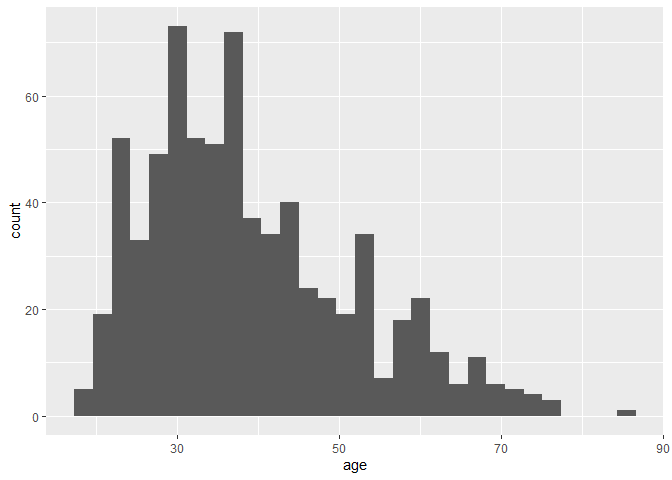
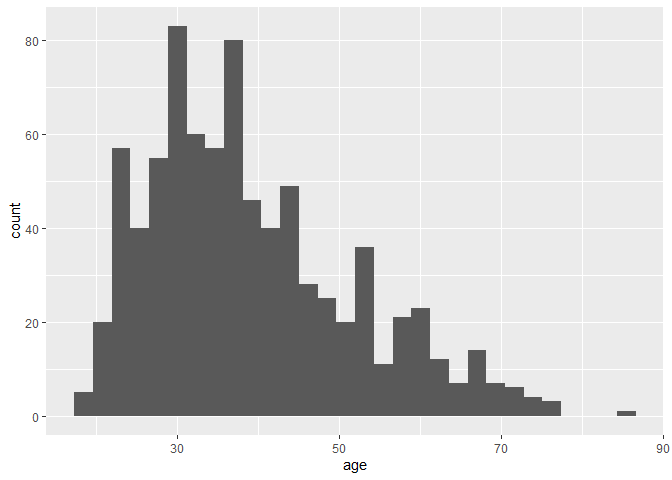
updating data file

diff --git a/04_update_prob/get_qualtrics_data_political_candidates.md b/04_update_prob/get_qualtrics_data_political_candidates.md
@@ -55,7 +55,7 @@ current_batch_type <- "Iterative Batch Phase: Min"
 df <- load_qualtrics(survey_name)
 ```
 
-    ##   |                                                                              |                                                                      |   0%  |                                                                              |============                                                          |  17%  |                                                                              |===========================================                           |  61%  |                                                                              |=============================================================         |  87%  |                                                                              |===================================================================   |  96%  |                                                                              |======================================================================| 100%
+    ##   |                                                                              |                                                                      |   0%  |                                                                              |===========                                                           |  16%  |                                                                              |=======================================                               |  56%  |                                                                              |===================================================================   |  96%  |                                                                              |======================================================================| 100%
 
     ## 
     ## ── Column specification ────────────────────────────────────────────────────────
@@ -90,7 +90,7 @@ df %>%
   nrow()
 ```
 
-    ## [1] 1146
+    ## [1] 1247
 
 ``` r
 # drop test data
@@ -103,21 +103,21 @@ df %>%
   nrow()
 ```
 
-    ## [1] 1023
+    ## [1] 1124
 
 ``` r
 # average finished rate
 mean(df$Finished)
 ```
 
-    ## [1] 0.998045
+    ## [1] 0.9982206
 
 ``` r
 # average time to complete
 mean(df$`Duration (in seconds)`)
 ```
 
-    ## [1] 97.81916
+    ## [1] 96.61655
 
 ``` r
 # compare amount of time spent
@@ -135,7 +135,7 @@ df %>%
     ## # A tibble: 1 × 4
     ##   `Duration (in seconds)_mean` Duration (in seconds)_mi…¹ Duration (in seconds…²
     ##                          <dbl>                      <dbl>                  <dbl>
-    ## 1                         1.63                      0.433                   25.6
+    ## 1                         1.61                      0.433                   25.6
     ## # ℹ abbreviated names: ¹`Duration (in seconds)_min`,
     ## #   ²`Duration (in seconds)_max`
     ## # ℹ 1 more variable: `Duration (in seconds)_median` <dbl>
@@ -146,6 +146,8 @@ df %>%
 # hardcoding this because it should not be changing each time
 # we should only update it as we increase batches
 df <- df %>%
+  # drop data collected incorrectly
+  filter(StartDate_clean <= ymd_hms("2023-12-27-16-54-00") | StartDate_clean >= ymd_hms("2024-01-03-00-00-00")) %>%
   mutate(
     batch_id = case_when(
       StartDate_clean <= ymd_hms("2023-12-26-18-48-00") ~ 0,
@@ -153,6 +155,7 @@ df <- df %>%
       StartDate_clean <= ymd_hms("2023-12-27-14-47-00") ~ 2,
       StartDate_clean <= ymd_hms("2023-12-27-15-33-00") ~ 3,
       StartDate_clean <= ymd_hms("2023-12-27-16-54-00") ~ 4,
+      StartDate_clean <= ymd_hms("2024-01-03-12-43-00") ~ 1,
       TRUE ~ NA_integer_
     ),
     batch_type = case_when(
@@ -161,9 +164,7 @@ df <- df %>%
       StartDate_clean > ymd_hms("2023-12-27-16-54-00") ~ "Iterative Batch Phase: Min",
       TRUE ~ NA_character_
     )
-  ) %>%
-  # drop data collected incorrectly
-  filter(StartDate_clean <= ymd_hms("2023-12-27-16-54-00") | StartDate_clean >= ymd_hms("2024-01-03-00-00-00")) %>% 
+  ) %>% 
   verify(!is.na(batch_id)) 
 
 df %>%
@@ -174,15 +175,16 @@ df %>%
     ## `summarise()` has grouped output by 'batch_id'. You can override using the
     ## `.groups` argument.
 
-    ## # A tibble: 5 × 3
+    ## # A tibble: 6 × 3
     ## # Groups:   batch_id [5]
     ##   batch_id batch_type                     n
     ##      <dbl> <chr>                      <int>
     ## 1        0 Warmup                       323
     ## 2        1 Iterative Batch Phase: Max    99
-    ## 3        2 Iterative Batch Phase: Max   100
-    ## 4        3 Iterative Batch Phase: Max   100
-    ## 5        4 Iterative Batch Phase: Max   100
+    ## 3        1 Iterative Batch Phase: Min   101
+    ## 4        2 Iterative Batch Phase: Max   100
+    ## 5        3 Iterative Batch Phase: Max   100
+    ## 6        4 Iterative Batch Phase: Max   100
 
 ## Survey Validation
 
@@ -214,7 +216,7 @@ df %>%
   distinct()
 ```
 
-    ## # A tibble: 5 × 8
+    ## # A tibble: 6 × 8
     ##   batch_id   pi1   pi2   pi3   pi4   pi5   pi6   pi7
     ##      <dbl> <dbl> <dbl> <dbl> <dbl> <dbl> <dbl> <dbl>
     ## 1        0 0.125 0.25  0.375 0.5   0.625 0.75  0.875
@@ -222,6 +224,7 @@ df %>%
     ## 3        2 0.023 0.176 0.186 0.199 0.845 0.94  0.955
     ## 4        3 0.028 0.073 0.078 0.094 0.813 0.925 0.94 
     ## 5        4 0.035 0.102 0.108 0.12  0.856 0.901 0.916
+    ## 6        1 0.111 0.146 0.346 0.738 0.748 0.781 0.982
 
 ``` r
 # check consent means their responses are missing
@@ -237,7 +240,7 @@ df <- df %>%
     ## Warning in check_consent(.): 1 survey respondents who do not consent with
     ## non-missing responses
 
-    ## Warning in check_consent(.): 721 respondents in the data
+    ## Warning in check_consent(.): 822 respondents in the data
 
 ``` r
 # check that all completed
@@ -248,7 +251,7 @@ df <- df %>%
     ## Warning in check_completion(.): Dropping 2 survey respondents who did not
     ## finish
 
-    ## Warning in check_completion(.): 719 respondents in the data
+    ## Warning in check_completion(.): 820 respondents in the data
 
 ``` r
 df <- df %>%
@@ -270,12 +273,12 @@ df <- df %>%
     ## Warning in check_commitment(.): Dropping 1 survey respondents did not pass
     ## commitment check 1
 
-    ## Warning in check_commitment(.): 718 respondents in the data
+    ## Warning in check_commitment(.): 819 respondents in the data
 
     ## Warning in check_commitment(.): Dropping 2 survey respondents who did not pass
     ## commitment check 2
 
-    ## Warning in check_commitment(.): 716 respondents in the data
+    ## Warning in check_commitment(.): 817 respondents in the data
 
 ``` r
 # create context variable
@@ -290,8 +293,8 @@ df %>%
     ## `summarise()` has grouped output by 'batch_type'. You can override using the
     ## `.groups` argument.
 
-    ## # A tibble: 16 × 3
-    ## # Groups:   batch_type [2]
+    ## # A tibble: 24 × 3
+    ## # Groups:   batch_type [3]
     ##    batch_type                 context     n
     ##    <chr>                      <ord>   <int>
     ##  1 Iterative Batch Phase: Max 1          12
@@ -302,14 +305,9 @@ df %>%
     ##  6 Iterative Batch Phase: Max 6          32
     ##  7 Iterative Batch Phase: Max 7          11
     ##  8 Iterative Batch Phase: Max 8          39
-    ##  9 Warmup                     1          33
-    ## 10 Warmup                     2          39
-    ## 11 Warmup                     3          42
-    ## 12 Warmup                     4          28
-    ## 13 Warmup                     5          51
-    ## 14 Warmup                     6          42
-    ## 15 Warmup                     7          37
-    ## 16 Warmup                     8          45
+    ##  9 Iterative Batch Phase: Min 1          11
+    ## 10 Iterative Batch Phase: Min 2           2
+    ## # ℹ 14 more rows
 
 ``` r
 df %>%
@@ -320,15 +318,16 @@ df %>%
     ## `summarise()` has grouped output by 'batch_id'. You can override using the
     ## `.groups` argument.
 
-    ## # A tibble: 5 × 3
+    ## # A tibble: 6 × 3
     ## # Groups:   batch_id [5]
     ##   batch_id batch_type                     n
     ##      <dbl> <chr>                      <int>
     ## 1        0 Warmup                       317
     ## 2        1 Iterative Batch Phase: Max    99
-    ## 3        2 Iterative Batch Phase: Max   100
-    ## 4        3 Iterative Batch Phase: Max   100
-    ## 5        4 Iterative Batch Phase: Max   100
+    ## 3        1 Iterative Batch Phase: Min   101
+    ## 4        2 Iterative Batch Phase: Max   100
+    ## 5        3 Iterative Batch Phase: Max   100
+    ## 6        4 Iterative Batch Phase: Max   100
 
 ``` r
 # check ID is unique again
@@ -336,6 +335,8 @@ if (length(unique(df$`Prolific ID Q`)) != nrow(df)) {
   print("ID is not unique")
 }
 ```
+
+    ## [1] "ID is not unique"
 
 ``` r
 df %>%
@@ -466,7 +467,7 @@ df_clean %>%
   verify(!is.na(chose_younger))
 ```
 
-    ## # A tibble: 716 × 10
+    ## # A tibble: 817 × 10
     ##    chose_younger    Q1    Q2    Q3    Q4    Q5    Q6    Q7    Q8 context
     ##            <dbl> <dbl> <dbl> <dbl> <dbl> <dbl> <dbl> <dbl> <dbl> <ord>  
     ##  1             1    NA    NA    NA     1    NA    NA    NA    NA 6      
@@ -479,7 +480,7 @@ df_clean %>%
     ##  8             1    NA    NA    NA     1    NA    NA    NA    NA 5      
     ##  9             0    NA     0    NA    NA    NA    NA    NA    NA 6      
     ## 10             1    NA     1    NA    NA    NA    NA    NA    NA 5      
-    ## # ℹ 706 more rows
+    ## # ℹ 807 more rows
 
 ``` r
 df_clean %>%
@@ -494,14 +495,14 @@ df_clean %>%
     ## # A tibble: 8 × 4
     ##   context     n resp1 resp0
     ##   <ord>   <int> <dbl> <int>
-    ## 1 1          45    33    12
-    ## 2 2          79    57    22
-    ## 3 3          47    32    15
-    ## 4 4          37    26    11
-    ## 5 5         302   238    64
-    ## 6 6          74    54    20
-    ## 7 7          48    34    14
-    ## 8 8          84    62    22
+    ## 1 1          56    39    17
+    ## 2 2          81    58    23
+    ## 3 3          65    46    19
+    ## 4 4          82    63    19
+    ## 5 5         304   238    66
+    ## 6 6          76    55    21
+    ## 7 7          68    50    18
+    ## 8 8          85    63    22
 
 ``` r
 # identify context desc
@@ -533,7 +534,7 @@ df_clean %>%
     ## # A tibble: 1 × 1
     ##   per_pass_attention_check
     ##                      <dbl>
-    ## 1                    0.964
+    ## 1                    0.965
 
 ``` r
 df_clean <- df_clean %>%
@@ -570,14 +571,14 @@ df_clean %>%
     ## # A tibble: 8 × 3
     ##   race                                  n     per
     ##   <chr>                             <int>   <dbl>
-    ## 1 White                               506 0.707  
-    ## 2 Asian                                73 0.102  
-    ## 3 Black or African American            69 0.0964 
-    ## 4 Multiracial                          40 0.0559 
-    ## 5 Other                                16 0.0223 
-    ## 6 American Indian or Alaskan Native     5 0.00698
-    ## 7 Prefer not to disclose                5 0.00698
-    ## 8 Native Hawaiian                       2 0.00279
+    ## 1 White                               583 0.714  
+    ## 2 Asian                                82 0.100  
+    ## 3 Black or African American            79 0.0967 
+    ## 4 Multiracial                          44 0.0539 
+    ## 5 Other                                17 0.0208 
+    ## 6 American Indian or Alaskan Native     5 0.00612
+    ## 7 Prefer not to disclose                5 0.00612
+    ## 8 Native Hawaiian                       2 0.00245
 
 ``` r
 df_clean %>%
@@ -587,7 +588,7 @@ df_clean %>%
 
     ## `stat_bin()` using `bins = 30`. Pick better value with `binwidth`.
 
-    ## Warning: Removed 5 rows containing non-finite values (`stat_bin()`).
+    ## Warning: Removed 7 rows containing non-finite values (`stat_bin()`).
 
 ![](get_qualtrics_data_political_candidates_files/figure-gfm/demog-1.png)<!-- -->
 
@@ -600,8 +601,8 @@ df_clean %>%
     ## # A tibble: 2 × 2
     ##   female count
     ##   <lgl>  <int>
-    ## 1 FALSE    386
-    ## 2 TRUE     330
+    ## 1 FALSE    443
+    ## 2 TRUE     374
 
 ``` r
 df_clean %>%
@@ -614,7 +615,7 @@ df_clean %>%
     ## # A tibble: 1 × 2
     ##   count_hispanic per_hispanic
     ##            <int>        <dbl>
-    ## 1             72        0.101
+    ## 1             79       0.0967
 
 ## Clean Data Validation
 
